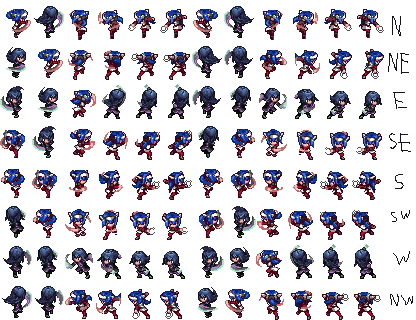
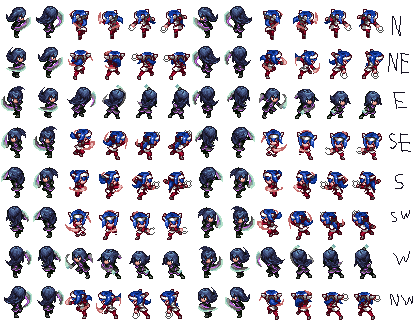
0.3.1
Finalized dash animation

diff --git a/changelog.md b/changelog.md
@@ -1,3 +1,9 @@
+0.3.1 (03/26/2023)
+### New Content
+- Dash animation finalized, heavily edited from Lychee
+### Changes
+- Moved effect godThrowNeutral and godThrowNeutralRev from hexacastXMC.json to neutral.json
+
 0.3.0 (03/26/2023)
 ### New Content
 - New combat art: Mundane Volley (Neutral Throw Lv.1B)
